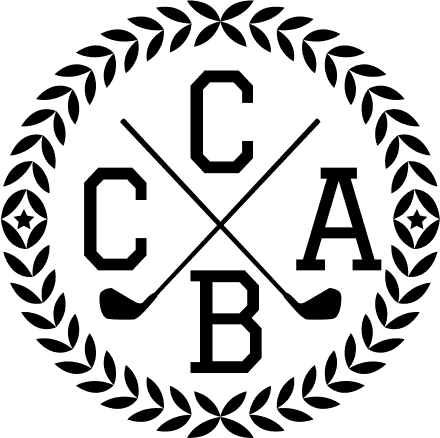
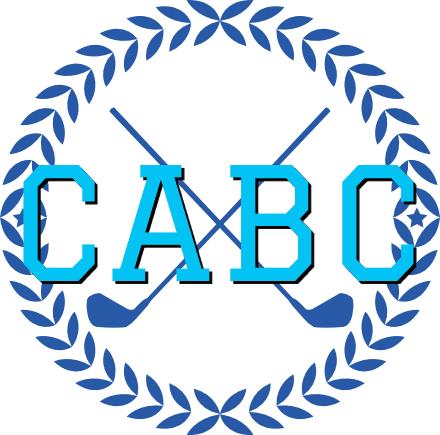
Added color!

diff --git a/css/app.css b/css/app.css
@@ -2179,7 +2179,7 @@ body {
   position: absolute;
   z-index: -55;
   width: 100%;
-  height: 100%;
+  height: 1000px;
   top: 0;
   left: 0;
   background: url("/img/assets/bg/logo-shade.png") no-repeat left top; }
@@ -2352,7 +2352,9 @@ body#cabc-golf-tournament-2016 main #tournament-hero {
       font-size: 1.5rem;
       text-transform: uppercase; }
     body#cabc-golf-tournament-2016 main #tournament-hero h2#banner-header span#name {
-      font-size: 3.875rem; }
+      font-size: 3.875rem;
+      color: #02C3F3;
+      text-shadow: 0.125rem 0.125rem 0 #2859A6; }
     body#cabc-golf-tournament-2016 main #tournament-hero h2#banner-header span#tournament {
       font-size: 2.875rem; }
     @media screen and (min-width: 0em) and (max-width: 39.9375em) {
@@ -2410,7 +2412,7 @@ body#cabc-golf-tournament-2016 main #tournament-deets {
       padding: 0.625em; }
     body#cabc-golf-tournament-2016 main #tournament-deets .content-box .icon-bg:after {
       font-family: 'cabc';
-      color: #E8E8E8;
+      color: #B1EDFC;
       font-size: 11.25rem;
       line-height: 1;
       display: block; }
@@ -2500,11 +2502,26 @@ body#cabc-golf-tournament-2016 main #sponsorship-section {
 body#cabc-golf-tournament-2016 main #signup-contact {
   margin-bottom: 6.25em;
   padding-bottom: 6.25em; }
-  body#cabc-golf-tournament-2016 main #signup-contact #question {
-    font-size: 3rem; }
-  body#cabc-golf-tournament-2016 main #signup-contact #c2a {
-    font-size: 3.625rem;
-    margin-bottom: 3.125rem; }
+  body#cabc-golf-tournament-2016 main #signup-contact .blue-banner {
+    background: #02C3F3;
+    padding: 1.875em 0;
+    margin-bottom: 3.125em; }
+    body#cabc-golf-tournament-2016 main #signup-contact .blue-banner #c2a {
+      font-size: 3.125rem;
+      line-height: 1.2;
+      margin: 0;
+      color: #fff;
+      text-shadow: 0 0.125rem 0.0625rem #000; }
+      @media screen and (min-width: 40em) {
+        body#cabc-golf-tournament-2016 main #signup-contact .blue-banner #c2a {
+          font-size: 3.625rem; } }
+  body#cabc-golf-tournament-2016 main #signup-contact #appeal {
+    line-height: 1.4;
+    font-size: 1.5rem;
+    margin-bottom: 2.875rem; }
+    @media screen and (min-width: 40em) {
+      body#cabc-golf-tournament-2016 main #signup-contact #appeal {
+        font-size: 1.9375rem; } }
   body#cabc-golf-tournament-2016 main #signup-contact p#info {
     line-height: 1.4;
     font-size: 1.9375rem;

diff --git a/scss/pages/golf-tournament/main/_signup-contact.scss b/scss/pages/golf-tournament/main/_signup-contact.scss
@@ -9,13 +9,32 @@ body#cabc-golf-tournament-2016 {
 			margin-bottom: em(100);
 			padding-bottom: em(100);
 
-			#question {
-				font-size: rem(48);
+			.blue-banner {
+				background: $light-blue;
+				padding: em(30) 0;
+				margin-bottom: em(50);
+
+				#c2a {
+					font-size: rem(50);
+					line-height: 1.2;
+					margin: 0;
+					color: #fff;
+					text-shadow: 0 rem(2) rem(1) #000;
+
+					@include breakpoint(medium) {
+						font-size: rem(58);
+					}
+				}
 			}
 
-			#c2a {
-				font-size: rem(58);
-				margin-bottom: rem(50);
+			#appeal {
+				line-height: 1.4;
+				font-size: rem(24);
+				margin-bottom: rem(46);
+
+				@include breakpoint(medium) {
+					font-size: rem(31);
+				}
 			}
 
 			p#info {
@@ -77,5 +96,6 @@ body#cabc-golf-tournament-2016 {
 		}
 	}
 }
+
 
 

diff --git a/scss/pages/golf-tournament/main/_tournament-deets.scss b/scss/pages/golf-tournament/main/_tournament-deets.scss
@@ -51,7 +51,8 @@ body#cabc-golf-tournament-2016 {
 
 				.icon-bg:after {
 					font-family: 'cabc';
-					color: #E8E8E8;
+					// color: #E8E8E8; pale-grey
+					color: #B1EDFC;
 					font-size: rem(180);
 					line-height: 1;
 					display: block;

diff --git a/scss/pages/golf-tournament/main/_tournament-hero.scss b/scss/pages/golf-tournament/main/_tournament-hero.scss
@@ -22,6 +22,8 @@ body#cabc-golf-tournament-2016 {
 				}
 				span#name {
 					font-size: rem(62);
+					color: #02C3F3;
+					text-shadow: rem(2) rem(2) 0 #2859A6;
 				}
 				span#tournament {
 					font-size: rem(46);

diff --git a/scss/blocks/_body.scss b/scss/blocks/_body.scss
@@ -11,7 +11,7 @@ body {
 	position: absolute;
 	z-index: -55;
 	width: 100%;
-	height: 100%;
+	height: 1000px;
 	top: 0;
 	left: 0;
 	background: url('#{$url}/img/assets/bg/logo-shade.png') no-repeat left top;

diff --git a/cabc-golf-tournament-2016.php b/cabc-golf-tournament-2016.php
@@ -225,16 +225,21 @@
 			</div>
 		</div>
 	</section>
-	<section class="row text-center" id="signup-contact">
-		<h2 id="question">Want to play or sponsor?</h2>
-		<h2 id="c2a" class="title">Sign Up Today!</h2>
-		<p id="info">
-			<span>To sign up, please contact :</span>
-			<span id="name">Luis Gonzales</span>
-			<span id="position">CABC Golf Tournament Chair</span>
-		</p>
-		<p id="phone"><i class="icon-mobile-alt"></i>&nbsp;(832) 419-4717</p>
-		<p id="email"><i class="icon-mail"></i>&nbsp;luis.m.gutierrez<span>@morganstanley.com</span></p>
+	<section class="text-center" id="signup-contact">
+		<div class="blue-banner">
+			<h2 id="c2a" class="title">Get Signed Up!</h2>
+		</div>
+		<div class="row">
+			<!-- <h2 id="c2a" class="title">Sign Up Today!</h2> -->
+			<p id="appeal" class="medium-10 medium-offset-1 columns end padding">Our student athletes are the best in the district! Let’s show them how much we care. Sign up today to play or sponsor!</p>
+			<p id="info" class="small-12 columns">
+				<span>To sign up, please contact :</span>
+				<span id="name">Luis Gonzales</span>
+				<span id="position">CABC Golf Tournament Chair</span>
+			</p>
+			<p id="phone" class="small-12 columns"><i class="icon-mobile-alt"></i>&nbsp;(832) 419-4717</p>
+			<p id="email" class="small-12 columns"><i class="icon-mail"></i>&nbsp;luis.m.gutierrez<span>@morganstanley.com</span></p>
+		</div>
 	</section>
 </main>
 
@@ -243,14 +248,14 @@
 <script src="/bower_components/foundation-sites/dist/foundation.js"></script>
 <script src="<?php autoVer('/js/min/app-min.js'); ?>"></script>
 
-<!--<script>
+<script>
 	(function(b,o,i,l,e,r){b.GoogleAnalyticsObject=l;b[l]||(b[l]=
 	function(){(b[l].q=b[l].q||[]).push(arguments)});b[l].l=+new Date;
 	e=o.createElement(i);r=o.getElementsByTagName(i)[0];
 	e.src='https://www.google-analytics.com/analytics.js';
 	r.parentNode.insertBefore(e,r)}(window,document,'script','ga'));
 	ga('create','UA-55459011-9','auto');ga('send','pageview');
-</script>-->
+</script>
 
 </body>
 </html>

diff --git a/index.php b/index.php
@@ -6,7 +6,7 @@
 <head>
 	<meta charset="utf-8">
 	<title>Clements Athletic Booster Club | Clements High School</title>
-	<meta name="description" content="The future home for all Clements High School sports teams, with game schedules and more.">
+	<meta name="description" content="The home for all Clements High School sports teams, with game schedules and more.">
 	<meta name="viewport" content="width=device-width, initial-scale=1.0">
 	<link rel="canonical" href="http://clementsathleticboosterclub.org" />
 	<link rel="author" href="/humans.txt">
@@ -17,7 +17,7 @@
 	<meta property="og:locale" content="en_US" />
 	<meta property="og:type" content="website" />
 	<meta property="og:title" content="Clements Athletic Booster Club" />
-	<meta property="og:description" content="The future home for all Clements High School sports teams, with game schedules and more." />
+	<meta property="og:description" content="The home for all Clements High School sports teams, with game schedules and more." />
 	<meta property="og:url" content="http://clementsathleticboosterclub.org" />
 	<meta property="og:site_name" content="Clements Athletic Booster Club" />
 	<meta property="og:image" content="http://clementsathleticboosterclub.org/img/assets/og/landing-temp/og-shot.png" />
@@ -83,14 +83,14 @@
 <script src="/bower_components/foundation-sites/dist/foundation.js"></script>
 <script src="<?php autoVer('/js/min/app-min.js'); ?>"></script>
 
-<!--<script>
+<script>
 	(function(b,o,i,l,e,r){b.GoogleAnalyticsObject=l;b[l]||(b[l]=
 	function(){(b[l].q=b[l].q||[]).push(arguments)});b[l].l=+new Date;
 	e=o.createElement(i);r=o.getElementsByTagName(i)[0];
 	e.src='https://www.google-analytics.com/analytics.js';
 	r.parentNode.insertBefore(e,r)}(window,document,'script','ga'));
 	ga('create','UA-55459011-9','auto');ga('send','pageview');
-</script>-->
+</script>
 
 </body>
 </html>

diff --git a/cabc-sports.php b/cabc-sports.php
@@ -73,14 +73,14 @@
 <script src="/bower_components/foundation-sites/dist/foundation.js"></script>
 <script src="<?php autoVer('/js/min/app-min.js'); ?>"></script>
 
-<!--<script>
+<script>
 	(function(b,o,i,l,e,r){b.GoogleAnalyticsObject=l;b[l]||(b[l]=
 	function(){(b[l].q=b[l].q||[]).push(arguments)});b[l].l=+new Date;
 	e=o.createElement(i);r=o.getElementsByTagName(i)[0];
 	e.src='https://www.google-analytics.com/analytics.js';
 	r.parentNode.insertBefore(e,r)}(window,document,'script','ga'));
 	ga('create','UA-55459011-9','auto');ga('send','pageview');
-</script>-->
+</script>
 
 </body>
 </html>
